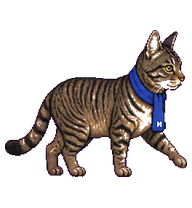
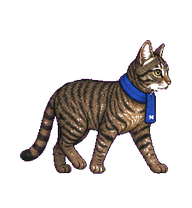
fix: refine pet motion interactions

diff --git a/ui/desktop_pet.py b/ui/desktop_pet.py
@@ -488,6 +488,7 @@ class DesktopPetWindow(QWidget):
         self._last_drag_cursor = QPoint()
         self._dragging = False
         self._drag_active = False
+        self._drag_direction = None
         self._state_action = None
         self._translation_bubble_allowed = True
         self._sprite_align_right = True
@@ -748,6 +749,7 @@ class DesktopPetWindow(QWidget):
         self._drag_window_origin = self.pos()
         self._dragging = True
         self._drag_active = False
+        self._drag_direction = None
         self._idle_action_timer.stop()
 
     def _drag_to(self, cursor_pos: QPoint):
@@ -756,9 +758,12 @@ class DesktopPetWindow(QWidget):
             self._drag_active = True
         if self._drag_active:
             horizontal_delta = cursor_pos.x() - self._last_drag_cursor.x()
-            action = "running-right" if horizontal_delta >= 0 else "running-left"
-            if abs(horizontal_delta) >= 1 and self.sprite.has_action(action):
-                self.sprite.play_action(action)
+            if abs(horizontal_delta) >= 2:
+                self._drag_direction = (
+                    "running-right" if horizontal_delta > 0 else "running-left"
+                )
+            if self._drag_direction and self.sprite.has_action(self._drag_direction):
+                self.sprite.play_action(self._drag_direction)
         self._last_drag_cursor = cursor_pos
         self.move(self._drag_window_origin + delta)
         sprite_offset_x = self.width() - self.sprite.width() if self._sprite_align_right else 0
@@ -771,6 +776,7 @@ class DesktopPetWindow(QWidget):
         was_active = self._drag_active
         self._dragging = False
         self._drag_active = False
+        self._drag_direction = None
         if was_active:
             self.sprite.stop_action()
             self._apply_state_action()
@@ -788,6 +794,9 @@ class DesktopPetWindow(QWidget):
         lick_paw_action = QAction("舔舔爪子", menu)
         lick_paw_action.setEnabled(self.sprite.has_action("lick_paw"))
         lick_paw_action.triggered.connect(lambda: self.sprite.play_action("lick_paw"))
+        wave_action = QAction("打个招呼", menu)
+        wave_action.setEnabled(self.sprite.has_action("wave"))
+        wave_action.triggered.connect(lambda: self.sprite.play_action("wave"))
         blink_action = QAction("眨眨眼", menu)
         blink_action.triggered.connect(lambda: self.sprite.play_action("blink"))
         jump_action = QAction("蹦一下", menu)
@@ -801,6 +810,7 @@ class DesktopPetWindow(QWidget):
         hide_action.triggered.connect(self.disable_pet)
         menu.addAction(open_action)
         menu.addAction(lick_paw_action)
+        menu.addAction(wave_action)
         menu.addAction(blink_action)
         menu.addAction(jump_action)
         menu.addAction(hide_bubble_action)
@@ -819,7 +829,7 @@ class DesktopPetWindow(QWidget):
     def _schedule_idle_action(self):
         self._idle_action_timer.stop()
         if self._enabled:
-            self._idle_action_timer.start(random.randint(12000, 28000))
+            self._idle_action_timer.start(random.randint(14000, 30000))
 
     def _play_idle_action(self):
         if (
@@ -827,10 +837,21 @@ class DesktopPetWindow(QWidget):
             and self.isVisible()
             and self._state == "idle"
             and not self._dragging
+            and not self.bubble.isVisible()
             and not self.sprite.current_action
-            and self.sprite.has_action("lick_paw")
         ):
-            self.sprite.play_action("lick_paw")
+            has_lick = self.sprite.has_action("lick_paw")
+            has_wave = self.sprite.has_action("wave")
+            if has_lick and has_wave:
+                action = "lick_paw" if random.random() < 0.75 else "wave"
+            elif has_lick:
+                action = "lick_paw"
+            elif has_wave:
+                action = "wave"
+            else:
+                action = None
+            if action:
+                self.sprite.play_action(action)
         self._schedule_idle_action()
 
     def _apply_state_action(self):

diff --git a/docs/pet-interaction-motion-design.md b/docs/pet-interaction-motion-design.md
@@ -1,0 +1,90 @@
+# 桌面宠物交互与动作设计
+
+## 设计目标
+
+让狸花猫在不打扰翻译主流程的前提下，清楚表达“正在移动、正在理解、完成结果、安静陪伴”四类状态。动作必须保持同一只猫的脸型、虎斑、蓝色围巾和身体比例，并在 192×208 像素中保持轮廓完整。
+
+## 现状审计
+
+1. 拖动动作只有单帧式抬腿变化，缺少前后脚交替接触、肩胯重心传递和稳定步幅，因此屏幕位移与肢体运动脱节，读起来像原地踏步。
+2. 部分行走帧在围巾下方出现透明孔洞，胸口与前腿连接不完整；轮廓还有洋红色边缘残留。
+3. “翻译中”主要保持正面坐姿，帧间只有很小的头部差异，缩小后几乎无法区分于普通待机。
+4. 舔爪动作自然、角色感强，应保留为主要闲置彩蛋，而不是改掉。
+
+## 动作优先级
+
+同一时间只允许一个叙事动作。高优先级动作可以打断低优先级动作，结束后恢复当前业务状态。
+
+| 优先级 | 状态 | 动作 | 结束条件 |
+| --- | --- | --- | --- |
+| 1 | 拖动 | 按水平移动方向播放慢走循环 | 鼠标释放 |
+| 2 | 朗读 | 现有朗读律动 | 语音结束 |
+| 3 | OCR / 翻译中 | 等待或扫描思考循环 | 翻译成功或失败 |
+| 4 | 翻译完成 | 审阅结果动作，单次播放 | 动作结束或 1.8 秒回到待机 |
+| 5 | 待机彩蛋 | 舔爪或抬爪打招呼，单次播放 | 动作结束 |
+| 6 | 基础待机 | 呼吸、眨眼和轻微尾尖动作 | 被任意高优先级状态打断 |
+
+## 交互状态机
+
+### 基础待机
+
+- 宠物处于 `idle`、没有拖动、没有气泡、没有业务动作时，启动 14–30 秒随机计时。
+- 计时到达后，75% 播放现有 `lick_paw`，25% 播放新增 `wave`。
+- 彩蛋播放期间不再次触发计时；播放结束后重新计时。
+- 右键菜单保留“舔舔爪子”，新增“打个招呼”，便于用户主动触发。
+
+### 拖动慢走
+
+- 左键移动超过 4px 后进入拖动态，单击不误触发。
+- 仅当水平位移达到 2px 时更新朝向；轻微垂直抖动沿用上一个方向，避免左右动画闪切。
+- 向右使用 `running-right`，向左使用 `running-left`；鼠标释放后停止慢走并恢复被打断的业务状态。
+- 动画必须是侧身真实慢走：四足交替、至少两组明确接触姿势、肩胯轻微传递重心；禁止腾空、冲刺、夸张跨步和原地高抬腿。
+- 围巾、颈部、胸口和前腿必须形成完整连续轮廓，任何帧不得出现透明孔洞或洋红色描边。
+
+### 翻译过程
+
+- `ocr` 使用等待动作，表现耳朵竖起、注意力集中。
+- `translating` 使用 `running`，但语义不是奔跑，而是“坐姿扫描思考”：
+  1. 正面警觉坐姿；
+  2. 耳朵向左转、头部轻微左倾；
+  3. 眼神回中、尾尖向另一侧摆；
+  4. 一只前爪短暂抬起触碰围巾下缘；
+  5. 头部轻微向右扫描、眼睛收窄；
+  6. 回到首帧可无缝循环的中性专注姿势。
+- 身体主体始终坐稳，动作变化集中在耳朵、头、眼神、尾尖和一只前爪；这样既明显，又不会像焦躁抖动。
+- 翻译流式结果更新不得重启动画，避免每次收到文本片段都回到第 1 帧。
+
+### 翻译完成与失败
+
+- 成功后播放一次 `review`，再回到待机；气泡是否显示不影响动作状态。
+- 失败时使用现有低落程序动作；没有合格失败资产时不复用其他语义动作。
+
+## 动画制作规范
+
+### 真实慢走（8 帧）
+
+- 侧视、身体长度与高度在各帧的变化不超过约 8%。
+- 脚掌基线波动控制在 6px 以内。
+- 帧序列包含：右前脚落地、左后脚推进、中间支撑、左前脚落地、右后脚推进，再回到起始接触组。
+- 每帧主体完整、互不接触、无影子、速度线、尘土或附加道具。
+
+### 扫描思考（6 帧）
+
+- 保持正面坐姿和完整蓝色围巾。
+- 通过轮廓可见的头部、耳朵、尾尖与抬爪变化表达处理过程。
+- 循环约 1.1–1.4 秒，节奏沉稳，不使用快速抽动。
+
+### 抬爪打招呼（4 帧）
+
+- 从自然坐姿开始，一只前爪抬到胸前，轻轻摆动一次后落回。
+- 不添加动作线、星星、文字或漂浮符号。
+- 单次播放，不循环；触发频率低于舔爪。
+
+## 验收标准
+
+- 拖动预览在静止背景中仍能读成向左/向右走路，不像踏步或冲刺。
+- 行走左右方向正确，镜像不改变围巾与虎斑身份，时间顺序不反转。
+- 翻译中动作在宠物实际显示尺寸下能一眼区别于普通待机。
+- 所有新帧透明角落、无连续洋红边、无胸颈透明孔、无裁切与邻帧残片。
+- 预览 GIF 无明显体量跳变、基线跳变或首尾闪跳。
+- 现有舔爪动作保持不变。
